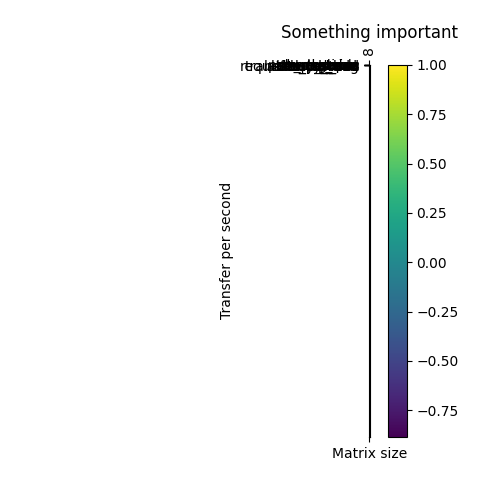
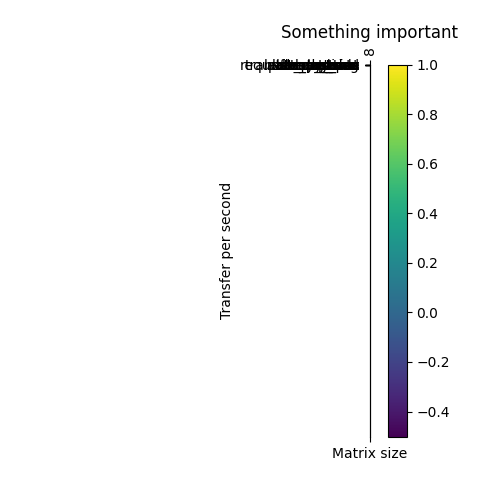
made a new plot for the matrices

diff --git a/run_plots.py b/run_plots.py
@@ -2,7 +2,7 @@ import pandas as pd
 import matplotlib.pyplot as plt
 import numpy as np
 
-results = pd.read_csv("performance_data_temp.csv")
+results = pd.read_csv("performance_data.csv")
 result_count = len(results)
 print(f"Total number of results: {result_count}")
 
@@ -27,7 +27,7 @@ def get_data(*args):
 d1 = get_data(('connections', 1000), ('threads', 1), ('duration', 10), ('throughput', 2000))
 print(len(d1))
 
-temp = get_data(('threads', 1), ('duration', 10), ('throughput', 1000), ('patterns_size', 64), ('matsize', 64))
+temp = get_data(('threads', 1), ('duration', 10), ('throughput', 1000), ('patterns_size', 64), ('connections', 4200))
 print(len(d1))
 
 plt.clf()
@@ -41,17 +41,18 @@ def list_fix(x, isSorted = False, factor = 1):
 
 x = temp['connections']
 
-a = list_fix(temp['connections'], isSorted=True)[5::2]
-b = list_fix(temp['latency_avg'], factor=0.001)[5::2]
-c = list_fix(temp['latency_stdev'], factor=0.001)[5::2]
+a = list_fix(temp['matsize'], isSorted=True)
+b = list_fix(temp['latency_avg'], factor=0.001)
+c = list_fix(temp['latency_stdev'], factor=0.001)
 print(a)
 
 fig, ax = plt.subplots()
 ax.errorbar(a, b, yerr=c, label='Latency (seconds)')
+ax.set_xscale('log', base=2)
 plt.legend()
-plt.xlabel('Number of connections')
+plt.xlabel('Matrix size')
 plt.ylabel('Average latency (seconds)')
-plt.title('Average latency by number of connections')
+plt.title('Average latency by matrix size')
 plt.savefig('hejsan')
 plt.show()
 plt.clf()

diff --git a/run_perf.py b/run_perf.py
@@ -120,14 +120,14 @@ def main():
     except FileNotFoundError:
         results = pd.DataFrame(columns=['matsize', 'patterns_size', 'nb_patterns', 'duration', 'threads', 'connections', 'throughput', 'latency_avg', 'latency_stdev', 'latency_max', 'requests', 'data_read', 'requests_per_sec', 'transfer_per_sec'])
 
-    matsize = [64]
+    matsize = []
     pattern_size = [64]   
     pattern_count = [10] 
     benchmark_duration = [10]
     thread_count = [1]
-    http_connections = []
-    for i in range(100, 10000, 100):
-        http_connections.append(i)
+    http_connections = [4200]
+    for i in range(3, 8):
+        matsize.append(2 ** i)
     throughput = [1000]
     
     run_configs = []
